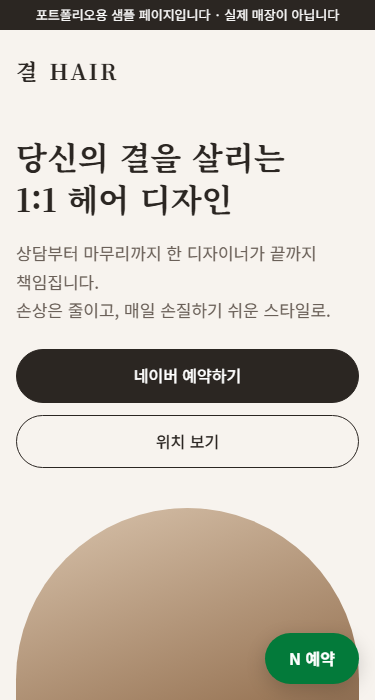
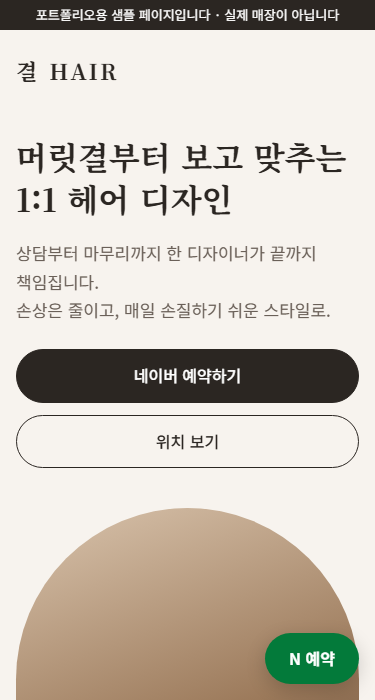
미용실 샘플: 새 제목 글자를 제목 글꼴 목록에 추가, 캡처 갱신

Changed region(s): [[0.0293, 0.18, 0.9093, 0.27]]

diff --git a/samples/hair.html b/samples/hair.html
@@ -19,7 +19,7 @@
 <link rel="preconnect" href="https://fonts.gstatic.com" crossorigin>
 <link href="https://fonts.googleapis.com/css2?family=Noto+Sans+KR:wght@400;500;700&display=swap" rel="stylesheet">
 <!-- 제목용 명조: 제목 글자 34자만 받음(text=). 제목 문구를 바꾸면 다시 만든다 -->
-<link href="https://fonts.googleapis.com/css2?family=Noto+Serif+KR:wght@700&text=1%3AAHIR%EA%B0%80%EA%B0%9D%EA%B2%B0%EA%B3%A0%EA%B8%B0%EA%B8%B8%EB%89%B4%EB%8A%94%EB%8B%A4%EB%8B%B9%EB%94%94%EB%A5%B8%EB%A6%AC%EB%A9%94%EC%82%B4%EC%88%A0%EC%8B%9C%EC%8B%A0%EC%96%B4%EC%98%A4%EC%9C%A0%EC%9D%84%EC%9D%98%EC%9D%B4%EC%9D%B8%EC%9E%90%ED%97%A4%ED%9B%84&display=swap" rel="stylesheet">
+<link href="https://fonts.googleapis.com/css2?family=Noto+Serif+KR:wght@700&text=1%3AAHIR%EA%B0%80%EA%B0%9D%EA%B2%B0%EA%B3%A0%EA%B8%B0%EA%B8%B8%EB%89%B4%EB%8A%94%EB%8B%A4%EB%8B%B9%EB%94%94%EB%A5%B8%EB%A6%AC%EB%A6%BF%EB%A7%9E%EB%A8%B8%EB%A9%94%EB%B3%B4%EB%B6%80%EC%82%B4%EC%88%A0%EC%8B%9C%EC%8B%A0%EC%96%B4%EC%98%A4%EC%9C%A0%EC%9D%84%EC%9D%98%EC%9D%B4%EC%9D%B8%EC%9E%90%EC%B6%94%ED%84%B0%ED%97%A4%ED%9B%84&display=swap" rel="stylesheet">
 <style>
   html{-webkit-text-size-adjust:100%;text-size-adjust:100%}
   :root{color-scheme:only light;--bg:#f7f3ee;--ink:#2b2622;--muted:#6A6058;--accent:#b0875f;--accent-text:#7F5D3C;--card:#fff;--line:#e6ddd3;
